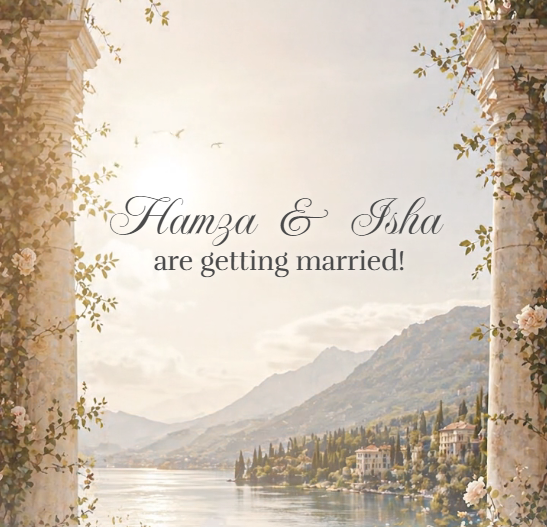
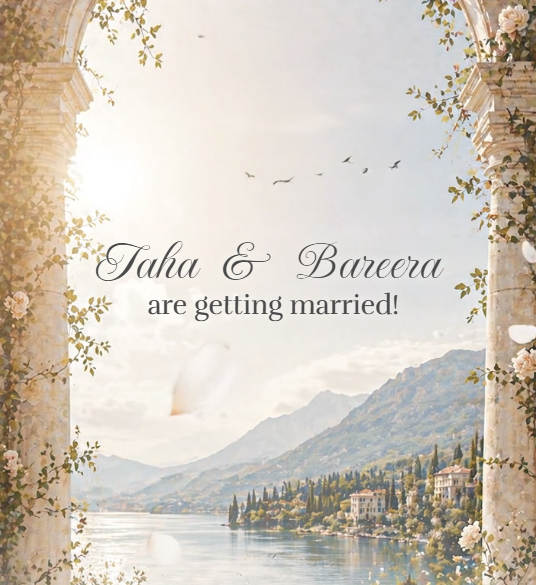
meta data updated

diff --git a/index.html b/index.html
@@ -12,16 +12,16 @@
   <meta property="og:title" content="You're Invited — Taha &amp; Bareera's Wedding 💍">
   <meta property="og:description" content="Join us as Taha &amp; Bareera say 'Qubool Hai' and begin their forever. Your presence would mean the world to us — we can't wait to celebrate with you!">
   <meta property="og:url" content="https://azad-family-2026.github.io/Taha-and-Bareera-are-getting-married/">
-  <meta property="og:image" content="https://azad-family-2026.github.io/Taha-and-Bareera-are-getting-married/assets/images/meta-data-img.png">
-  <meta property="og:image:secure_url" content="https://azad-family-2026.github.io/Taha-and-Bareera-are-getting-married/assets/images/meta-data-img.png">
+  <meta property="og:image" content="https://azad-family-2026.github.io/Taha-and-Bareera-are-getting-married/assets/images/meta-data-img.png?v=2">
+  <meta property="og:image:secure_url" content="https://azad-family-2026.github.io/Taha-and-Bareera-are-getting-married/assets/images/meta-data-img.png?v=2">
   <meta property="og:image:type" content="image/png">
-  <meta property="og:image:width" content="547">
-  <meta property="og:image:height" content="527">
+  <meta property="og:image:width" content="536">
+  <meta property="og:image:height" content="585">
   <meta property="og:image:alt" content="Taha & Bareera are getting married!">
   <meta name="twitter:card" content="summary_large_image">
   <meta name="twitter:title" content="You're Invited — Taha &amp; Bareera's Wedding 💍">
   <meta name="twitter:description" content="Join us as Taha &amp; Bareera say 'Qubool Hai' and begin their forever. Your presence would mean the world to us!">
-  <meta name="twitter:image" content="https://azad-family-2026.github.io/Taha-and-Bareera-are-getting-married/assets/images/meta-data-img.png">
+  <meta name="twitter:image" content="https://azad-family-2026.github.io/Taha-and-Bareera-are-getting-married/assets/images/meta-data-img.png?v=2">
   <!--/metatextblock-->
   <meta name="format-detection" content="telephone=no">
   <meta http-equiv="x-dns-prefetch-control" content="on">
